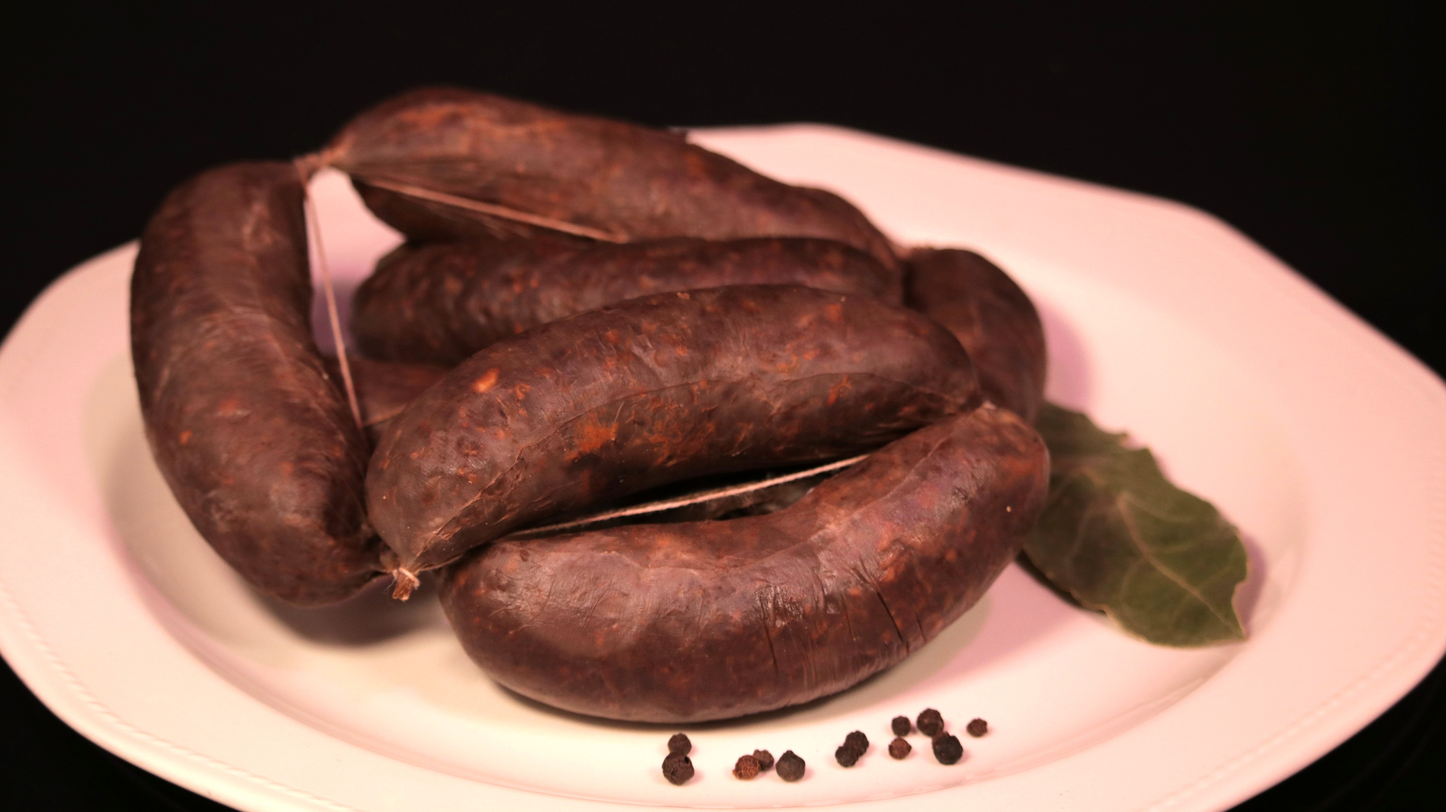
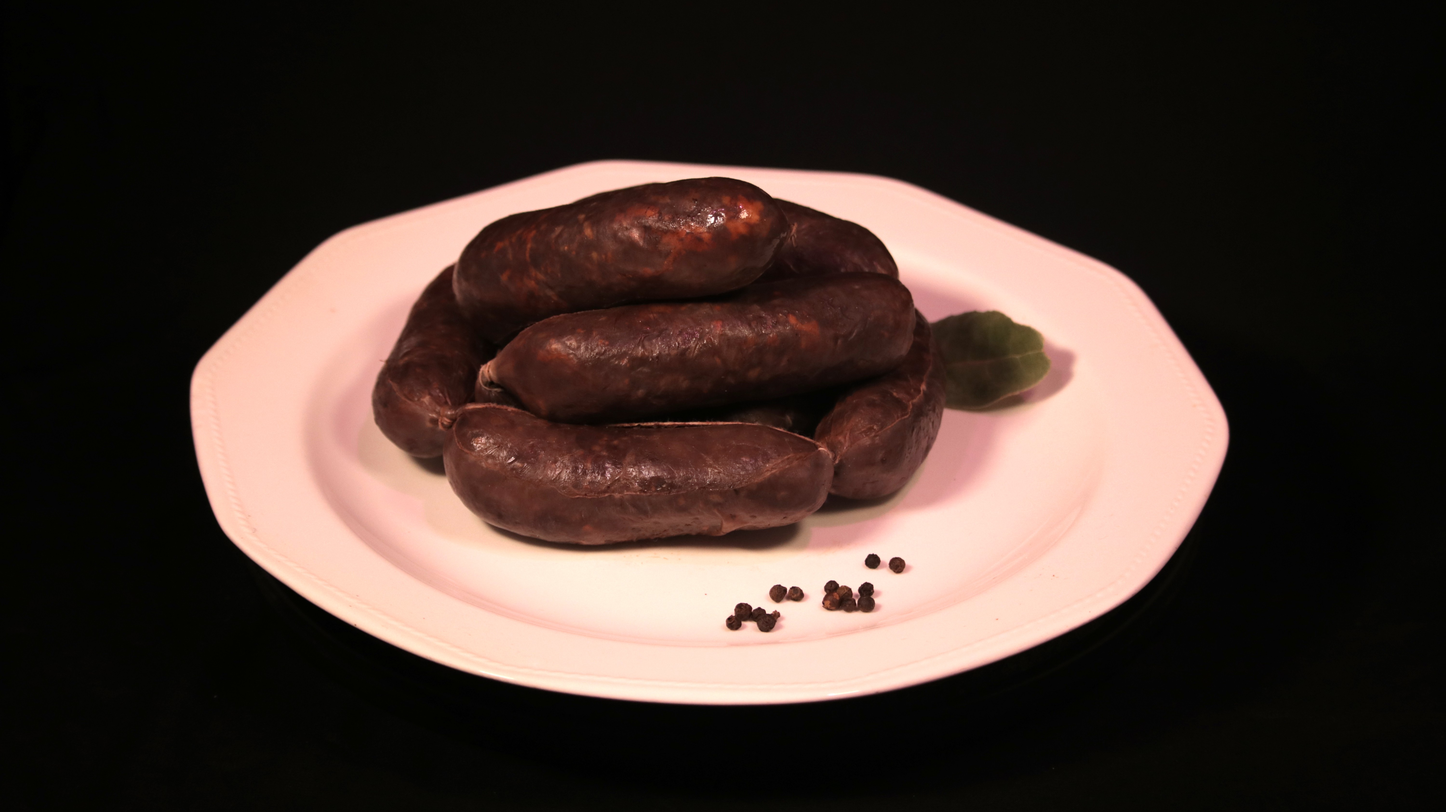
v3.0 imágenes añadidas

diff --git a/app/inicio.tsx b/app/inicio.tsx
@@ -225,10 +225,10 @@ export default function Inicio() {
         {/* Fondo de la sección */}
         <div
           className="w-full h-[200px] md:h-[400px] bg-cover bg-center"
-          style={{ backgroundImage: "url('/imagenes/otros/zarajosymorteruelo.jpg')" }}
+          style={{ backgroundImage: "url('/imagenes/otros/valores.jpg')" }}
         />
         {/* Overlay negro */}
-        <div className="absolute inset-0 bg-black opacity-55" />
+        <div className="absolute inset-0 bg-black opacity-65" />
 
         {/* Contenedor centralizado */}
         <div className="absolute inset-0 flex flex-col items-center justify-center text-center px-4">
@@ -278,7 +278,7 @@ export default function Inicio() {
           <div className="w-full md:w-1/2 relative p-6 flex justify-center">
             {/* Imagen base */}
             <Image
-              src="/imagenes/otros/carniceriaanalogica.jpg"
+              src="/imagenes/otros/jesuschorizos.jpg"
               alt="De Toda la Vida - La Tribuna de Cuenca"
               width={800}
               height={400}
@@ -294,7 +294,7 @@ export default function Inicio() {
             />
           </div>
           {/* Línea roja divisoria */}
-          <div className="hidden md:block w-1 bg-[#990000] h-100" />
+          <div className="hidden md:block w-1 bg-[#990000] h-80" />
           {/* Columna derecha: Noticia */}
           <div className="w-full md:w-1/2 p-6">
             <h1 className="text-3xl font-extrabold mb-4 text-gray-800 relative">
